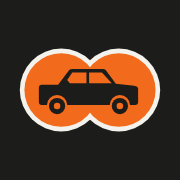
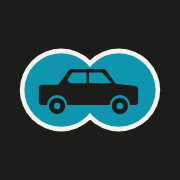
brand: petrol accent on the website (sw jh-v206)
Owner, 2026-11-17: "let's do petrol". With the name in one colour, the
orange was the remaining cue YardScout shared with an older site in the
same trade. The accent is now petrol:

  light  accent #0B6477 (6.0:1 on the page, white on it 6.8:1),
         hover and text-on-tint #084C5B
  dark   accent #2BB3CC (6.8:1 on the page), hover #5CC6DA,
         text-on-tint #7FD0E0
  mark   #1095AF in both themes (the NEW badge puts dark text on it: 4.8:1)

Changed: the tokens in styles.css, the mark where it is drawn as text
(index.html, 404.html, site-proxy share.js, brand SVGs, og-card.html),
the web icons (favicon, apple-touch, 192, 512: recoloured pixel by pixel,
soft edges kept) and og-card.png (regenerated). .lot-fast now takes its
text colour from --on-accent instead of a fixed white.

Not in this change: the app icon, splash and store art (they go with the
next release) and the colours inside emails (a builder is working in
those files; follow-up).

Claude-Session: https://claude.ai/code/session_01LsgNuWEh1vdaDCtdP1jxMM

Changed region(s): [[0.1111, 0.2778, 0.8889, 0.7222]]

diff --git a/docs/styles.css b/docs/styles.css
@@ -15,13 +15,13 @@
     --text: #1C1C1A;
     --text-dim: #5E5B54;
     /* One accent: safety orange, used sparingly and semantically. */
-    --accent: #B84A0A;
+    --accent: #0B6477;
     /* Brand orange from the logo kit — fills only (badges, stripe, marks);
        as small text it fails AA on cream, so links/text use --accent. */
-    --brand: #F26B1D;
+    --brand: #1095AF;
     --mark-rim: #1C1C1A;
-    --accent-hover: #9C3E08;
-    --accent-soft: rgba(242, 107, 29, 0.10);
+    --accent-hover: #084C5B;
+    --accent-soft: rgba(16, 149, 175, 0.10);
     --accent2: #3f6c33;
     --green-soft: rgba(63, 108, 51, 0.11);
     --red: #b03429;
@@ -89,11 +89,11 @@
     --border-dark: #5E5E58;
     --text: #F4F2EC;
     --text-dim: #B3B1AA;
-    --accent: #F26B1D;
-    --brand: #F26B1D;
+    --accent: #2BB3CC;
+    --brand: #1095AF;
     --mark-rim: #F4F2EC;
-    --accent-hover: #F6843F;
-    --accent-soft: rgba(242, 107, 29, 0.16);
+    --accent-hover: #5CC6DA;
+    --accent-soft: rgba(43, 179, 204, 0.16);
     --accent2: #8dbb7d;
     --green-soft: rgba(141, 187, 125, 0.14);
     --red: #e06b60;
@@ -134,11 +134,11 @@
     --border-dark: #5E5E58;
     --text: #F4F2EC;
     --text-dim: #B3B1AA;
-    --accent: #F26B1D;
-    --brand: #F26B1D;
+    --accent: #2BB3CC;
+    --brand: #1095AF;
     --mark-rim: #F4F2EC;
-    --accent-hover: #F6843F;
-    --accent-soft: rgba(242, 107, 29, 0.16);
+    --accent-hover: #5CC6DA;
+    --accent-soft: rgba(43, 179, 204, 0.16);
     --accent2: #8dbb7d;
     --green-soft: rgba(141, 187, 125, 0.14);
     --red: #e06b60;
@@ -2228,9 +2228,9 @@
 .pf-value { font-size: 0.75rem; display: flex; gap: 0.6rem; flex-wrap: wrap; align-items: baseline; }
 .pf-yard-price { font-family: var(--font-mono); font-weight: 600; }
 .pf-ebay { color: var(--text-dim); }
-.ebay-sold-link { font-size: 0.85em; color: var(--accent, #F26B1D); text-decoration: none; margin-left: 4px; }
+.ebay-sold-link { font-size: 0.85em; color: var(--accent, #0B6477); text-decoration: none; margin-left: 4px; }
 .ebay-sold-link:hover { text-decoration: underline; }
-.lot-fast { display: inline-block; margin-left: 6px; padding: 1px 6px; border-radius: 4px; font-size: 0.8em; font-weight: 600; background: var(--accent, #F26B1D); color: #fff; letter-spacing: .02em; }
+.lot-fast { display: inline-block; margin-left: 6px; padding: 1px 6px; border-radius: 4px; font-size: 0.8em; font-weight: 600; background: var(--accent, #0B6477); color: var(--on-accent, #fff); letter-spacing: .02em; }
 /* Buyer's savings figure: used-online price minus the yard's gate price. */
 .pf-save { font-family: var(--font-mono); font-weight: 700; color: var(--accent2); }
 .pf-warn {
@@ -2729,11 +2729,11 @@ header h1 { flex-wrap: wrap; }
 .car-grid > * { min-width: 0; }
 @media (max-width: 480px) { .car-grid { grid-template-columns: minmax(0, 1fr); } }
 .cc-head > *, .cc-actions > *, .profit-line > * { min-width: 0; }
-/* Orange text on an orange tint: one step darker (light) / lighter (dark)
+/* Accent text on an accent tint: one step darker (light) / lighter (dark)
    so it keeps 4.5:1 on the tint in both themes. */
-:root { --accent-on-soft: #9C3E08; }
-:root[data-theme="dark"] { --accent-on-soft: #FFA36B; }
-@media (prefers-color-scheme: dark) { :root:not([data-theme="light"]) { --accent-on-soft: #FFA36B; } }
+:root { --accent-on-soft: #084C5B; }
+:root[data-theme="dark"] { --accent-on-soft: #7FD0E0; }
+@media (prefers-color-scheme: dark) { :root:not([data-theme="light"]) { --accent-on-soft: #7FD0E0; } }
 .sample-pitch, .pro-tag, .plan-option.selected, .tier-plus, .pro-car, .pro-proof, .watch-strip, .focus-banner,
 .pf-chip.active, .filter-toggle.open, .cd-icon-btn.watching, .part-item.part-hit, .lot-fast-soft { --accent: var(--accent-on-soft); }
 #saved-pill #saved-count { color: var(--on-ink); }
@@ -2856,7 +2856,7 @@ a { color: var(--accent); }
 #photo-viewer.pv-failed .pv-fail-note { display: block; }
 #photo-viewer.pv-failed .pv-img { display: none; }
 .pv-links { display: flex; flex-wrap: wrap; column-gap: var(--s5); }
-#photo-viewer .locator-link { color: #FFA36B; }
+#photo-viewer .locator-link { color: #7FD0E0; }
 .pv-remove { min-height: var(--tap); display: inline-flex; align-items: center; font-size: var(--t-sm); color: #D8D5CC; }
 /* No photo: a slim strip, so Worth pulling stays near the top. */
 .photo-box.photo-none { aspect-ratio: auto; min-height: 3rem; height: auto; max-height: none; align-items: center; justify-content: flex-start; gap: var(--s2); padding: var(--s2) var(--s3); }

diff --git a/docs/brand/og-card.html b/docs/brand/og-card.html
@@ -11,7 +11,7 @@
   .url{position:absolute;left:0;top:456px;padding:0 20px;height:54px;line-height:54px;border:2px solid #1C1C1A;background:#FFFDF8;
        font:500 26px 'JetBrains Mono',ui-monospace,Menlo,monospace;color:#1C1C1A}
 </style></head><body><div class="wrap">
-  <svg class="lockup" xmlns="http://www.w3.org/2000/svg" width="940" height="200" viewBox="0 0 940 200"><g transform="translate(24.754 14.754) scale(1.31148)"><g fill="#1C1C1A"><circle cx="40" cy="65" r="36"/><circle cx="90" cy="65" r="36"/></g><g fill="#F26B1D"><circle cx="40" cy="65" r="32"/><circle cx="90" cy="65" r="32"/></g><g transform="translate(65 64) scale(0.88) translate(-66.5 -63)"><path d="M16 76 V62 Q16 59 19 59 H35 L46 44.5 Q47 43.5 49 43.5 H79 Q81 43.5 82 44.5 L92 58 L110 60 Q114 60.5 114 63 V76 Q114 79 111 79 H106 A10 10 0 0 0 86 79 H44 A10 10 0 0 0 24 79 H19 Q16 79 16 76 Z" fill="#1C1C1A"/><path d="M49 46.8 H78.3 L88 57.4 H46.6 L44 54.2 Z" fill="#F26B1D"/><g fill="#1C1C1A"><rect x="63" y="46" width="2.6" height="12"/></g><g fill="#1C1C1A"><circle cx="34" cy="80" r="8"/><circle cx="96" cy="80" r="8"/></g><g fill="#F26B1D"><circle cx="34" cy="80" r="3.2"/><circle cx="96" cy="80" r="3.2"/></g></g></g><text class="w" x="220" y="134" fill="#1C1C1A">YARD<tspan fill="#1C1C1A">SCOUT</tspan></text></svg>
+  <svg class="lockup" xmlns="http://www.w3.org/2000/svg" width="940" height="200" viewBox="0 0 940 200"><g transform="translate(24.754 14.754) scale(1.31148)"><g fill="#1C1C1A"><circle cx="40" cy="65" r="36"/><circle cx="90" cy="65" r="36"/></g><g fill="#1095AF"><circle cx="40" cy="65" r="32"/><circle cx="90" cy="65" r="32"/></g><g transform="translate(65 64) scale(0.88) translate(-66.5 -63)"><path d="M16 76 V62 Q16 59 19 59 H35 L46 44.5 Q47 43.5 49 43.5 H79 Q81 43.5 82 44.5 L92 58 L110 60 Q114 60.5 114 63 V76 Q114 79 111 79 H106 A10 10 0 0 0 86 79 H44 A10 10 0 0 0 24 79 H19 Q16 79 16 76 Z" fill="#1C1C1A"/><path d="M49 46.8 H78.3 L88 57.4 H46.6 L44 54.2 Z" fill="#1095AF"/><g fill="#1C1C1A"><rect x="63" y="46" width="2.6" height="12"/></g><g fill="#1C1C1A"><circle cx="34" cy="80" r="8"/><circle cx="96" cy="80" r="8"/></g><g fill="#1095AF"><circle cx="34" cy="80" r="3.2"/><circle cx="96" cy="80" r="3.2"/></g></g></g><text class="w" x="220" y="134" fill="#1C1C1A">YARD<tspan fill="#1C1C1A">SCOUT</tspan></text></svg>
   <div class="tag">Live inventory from 300+ self-service junkyards.<br>Rows and set-out dates, every 4 hours.</div>
   <div class="url">yardscout.io</div>
 </div></body></html>

diff --git a/backend/site-proxy/src/share.js b/backend/site-proxy/src/share.js
@@ -480,7 +480,7 @@ function layout({ title, desc, canonical, body, status = 200, robots = 'index,fo
 <body>
 <header>
   <div class="header-row">
-    <a href="${SITE}/" aria-label="YardScout home" style="display:block"><svg class="brand-mark" viewBox="4 29 122 72" aria-hidden="true"><g fill="var(--mark-rim)"><circle cx="40" cy="65" r="36"/><circle cx="90" cy="65" r="36"/></g><g fill="#F26B1D"><circle cx="40" cy="65" r="32"/><circle cx="90" cy="65" r="32"/></g><g transform="translate(65 64) scale(0.88) translate(-66.5 -63)"><path d="M16 76 V62 Q16 59 19 59 H35 L46 44.5 Q47 43.5 49 43.5 H79 Q81 43.5 82 44.5 L92 58 L110 60 Q114 60.5 114 63 V76 Q114 79 111 79 H106 A10 10 0 0 0 86 79 H44 A10 10 0 0 0 24 79 H19 Q16 79 16 76 Z" fill="#1C1C1A"/><path d="M49 46.8 H78.3 L88 57.4 H46.6 L44 54.2 Z" fill="#F26B1D"/><rect x="63" y="46" width="2.6" height="12" fill="#1C1C1A"/><g fill="#1C1C1A"><circle cx="34" cy="80" r="8"/><circle cx="96" cy="80" r="8"/></g><g fill="#F26B1D"><circle cx="34" cy="80" r="3.2"/><circle cx="96" cy="80" r="3.2"/></g></g></svg></a>
+    <a href="${SITE}/" aria-label="YardScout home" style="display:block"><svg class="brand-mark" viewBox="4 29 122 72" aria-hidden="true"><g fill="var(--mark-rim)"><circle cx="40" cy="65" r="36"/><circle cx="90" cy="65" r="36"/></g><g fill="#1095AF"><circle cx="40" cy="65" r="32"/><circle cx="90" cy="65" r="32"/></g><g transform="translate(65 64) scale(0.88) translate(-66.5 -63)"><path d="M16 76 V62 Q16 59 19 59 H35 L46 44.5 Q47 43.5 49 43.5 H79 Q81 43.5 82 44.5 L92 58 L110 60 Q114 60.5 114 63 V76 Q114 79 111 79 H106 A10 10 0 0 0 86 79 H44 A10 10 0 0 0 24 79 H19 Q16 79 16 76 Z" fill="#1C1C1A"/><path d="M49 46.8 H78.3 L88 57.4 H46.6 L44 54.2 Z" fill="#1095AF"/><rect x="63" y="46" width="2.6" height="12" fill="#1C1C1A"/><g fill="#1C1C1A"><circle cx="34" cy="80" r="8"/><circle cx="96" cy="80" r="8"/></g><g fill="#1095AF"><circle cx="34" cy="80" r="3.2"/><circle cx="96" cy="80" r="3.2"/></g></g></svg></a>
     <div class="wordmark"><p class="wm-name"><a href="${SITE}/" style="color:inherit;text-decoration:none">Yard<span class="wm-scout">Scout</span></a></p><span class="head-spec">${esc(spec)}</span></div>
   </div>
   <div style="display:flex;align-items:center;gap:0.5rem">

diff --git a/docs/404.html b/docs/404.html
@@ -40,7 +40,7 @@ body{padding-bottom:2.5rem}
 <body>
 <header>
   <div class="header-row">
-    <a href="https://yardscout.io/" aria-label="YardScout home" style="display:block"><svg class="brand-mark" viewBox="4 29 122 72" aria-hidden="true"><g fill="var(--mark-rim)"><circle cx="40" cy="65" r="36"/><circle cx="90" cy="65" r="36"/></g><g fill="#F26B1D"><circle cx="40" cy="65" r="32"/><circle cx="90" cy="65" r="32"/></g><g transform="translate(65 64) scale(0.88) translate(-66.5 -63)"><path d="M16 76 V62 Q16 59 19 59 H35 L46 44.5 Q47 43.5 49 43.5 H79 Q81 43.5 82 44.5 L92 58 L110 60 Q114 60.5 114 63 V76 Q114 79 111 79 H106 A10 10 0 0 0 86 79 H44 A10 10 0 0 0 24 79 H19 Q16 79 16 76 Z" fill="#1C1C1A"/><path d="M49 46.8 H78.3 L88 57.4 H46.6 L44 54.2 Z" fill="#F26B1D"/><rect x="63" y="46" width="2.6" height="12" fill="#1C1C1A"/><g fill="#1C1C1A"><circle cx="34" cy="80" r="8"/><circle cx="96" cy="80" r="8"/></g><g fill="#F26B1D"><circle cx="34" cy="80" r="3.2"/><circle cx="96" cy="80" r="3.2"/></g></g></svg></a>
+    <a href="https://yardscout.io/" aria-label="YardScout home" style="display:block"><svg class="brand-mark" viewBox="4 29 122 72" aria-hidden="true"><g fill="var(--mark-rim)"><circle cx="40" cy="65" r="36"/><circle cx="90" cy="65" r="36"/></g><g fill="#1095AF"><circle cx="40" cy="65" r="32"/><circle cx="90" cy="65" r="32"/></g><g transform="translate(65 64) scale(0.88) translate(-66.5 -63)"><path d="M16 76 V62 Q16 59 19 59 H35 L46 44.5 Q47 43.5 49 43.5 H79 Q81 43.5 82 44.5 L92 58 L110 60 Q114 60.5 114 63 V76 Q114 79 111 79 H106 A10 10 0 0 0 86 79 H44 A10 10 0 0 0 24 79 H19 Q16 79 16 76 Z" fill="#1C1C1A"/><path d="M49 46.8 H78.3 L88 57.4 H46.6 L44 54.2 Z" fill="#1095AF"/><rect x="63" y="46" width="2.6" height="12" fill="#1C1C1A"/><g fill="#1C1C1A"><circle cx="34" cy="80" r="8"/><circle cx="96" cy="80" r="8"/></g><g fill="#1095AF"><circle cx="34" cy="80" r="3.2"/><circle cx="96" cy="80" r="3.2"/></g></g></svg></a>
     <div class="wordmark"><p class="wm-name"><a href="https://yardscout.io/">Yard<span class="wm-scout">Scout</span></a></p><span class="head-spec">SELF-SERVICE YARD INTEL</span></div>
   </div>
 </header>

diff --git a/docs/index.html b/docs/index.html
@@ -57,7 +57,7 @@
   <div class="header-row">
     <!-- Row-marker plate: the numbered signs bolted to posts at the end of
          every self-service row. Two mounting screws, stamped letters. -->
-    <svg class="brand-mark" viewBox="4 29 122 72" aria-hidden="true"><g fill="var(--mark-rim)"><circle cx="40" cy="65" r="36"/><circle cx="90" cy="65" r="36"/></g><g fill="#F26B1D"><circle cx="40" cy="65" r="32"/><circle cx="90" cy="65" r="32"/></g><g transform="translate(65 64) scale(0.88) translate(-66.5 -63)"><path d="M16 76 V62 Q16 59 19 59 H35 L46 44.5 Q47 43.5 49 43.5 H79 Q81 43.5 82 44.5 L92 58 L110 60 Q114 60.5 114 63 V76 Q114 79 111 79 H106 A10 10 0 0 0 86 79 H44 A10 10 0 0 0 24 79 H19 Q16 79 16 76 Z" fill="#1C1C1A"/><path d="M49 46.8 H78.3 L88 57.4 H46.6 L44 54.2 Z" fill="#F26B1D"/><rect x="63" y="46" width="2.6" height="12" fill="#1C1C1A"/><g fill="#1C1C1A"><circle cx="34" cy="80" r="8"/><circle cx="96" cy="80" r="8"/></g><g fill="#F26B1D"><circle cx="34" cy="80" r="3.2"/><circle cx="96" cy="80" r="3.2"/></g></g></svg>
+    <svg class="brand-mark" viewBox="4 29 122 72" aria-hidden="true"><g fill="var(--mark-rim)"><circle cx="40" cy="65" r="36"/><circle cx="90" cy="65" r="36"/></g><g fill="#1095AF"><circle cx="40" cy="65" r="32"/><circle cx="90" cy="65" r="32"/></g><g transform="translate(65 64) scale(0.88) translate(-66.5 -63)"><path d="M16 76 V62 Q16 59 19 59 H35 L46 44.5 Q47 43.5 49 43.5 H79 Q81 43.5 82 44.5 L92 58 L110 60 Q114 60.5 114 63 V76 Q114 79 111 79 H106 A10 10 0 0 0 86 79 H44 A10 10 0 0 0 24 79 H19 Q16 79 16 76 Z" fill="#1C1C1A"/><path d="M49 46.8 H78.3 L88 57.4 H46.6 L44 54.2 Z" fill="#1095AF"/><rect x="63" y="46" width="2.6" height="12" fill="#1C1C1A"/><g fill="#1C1C1A"><circle cx="34" cy="80" r="8"/><circle cx="96" cy="80" r="8"/></g><g fill="#1095AF"><circle cx="34" cy="80" r="3.2"/><circle cx="96" cy="80" r="3.2"/></g></g></svg>
     <div class="wordmark">
       <h1>Yard<wbr><span class="wm-scout">Scout</span></h1>
       <span class="head-spec" id="head-spec">SELF&#8209;SERVICE YARD INTEL</span>

diff --git a/docs/sw.js b/docs/sw.js
@@ -3,7 +3,7 @@
    app is always fresh when online but still opens (with the last-seen inventory)
    when cell signal dies between the rows of cars. */
 
-const CACHE = 'jh-v205';
+const CACHE = 'jh-v206';
 const SHELL = [
   './',
   './index.html',

diff --git a/tools/capture_store_shots.py b/tools/capture_store_shots.py
@@ -345,7 +345,7 @@ def capture(browser, base, platform, slides, raw_dir: Path) -> dict[str, Path]:
 SLIDE_HTML = """<!doctype html><html><head><meta charset="utf-8">
 <link href="https://fonts.googleapis.com/css2?family=Inter:wght@500;700;800&display=swap" rel="stylesheet">
 <style>
-  :root { --bg:%(bg)s; --fg:%(fg)s; --dim:%(dim)s; --brand:#F26B1D; --rim:%(rim)s; }
+  :root { --bg:%(bg)s; --fg:%(fg)s; --dim:%(dim)s; --brand:#1095AF; --rim:%(rim)s; }
   html,body { margin:0; height:100%%; background:var(--bg); }
   body { font-family:'Inter',system-ui,sans-serif; color:var(--fg); display:flex;
          flex-direction:column; align-items:center; overflow:hidden; }
